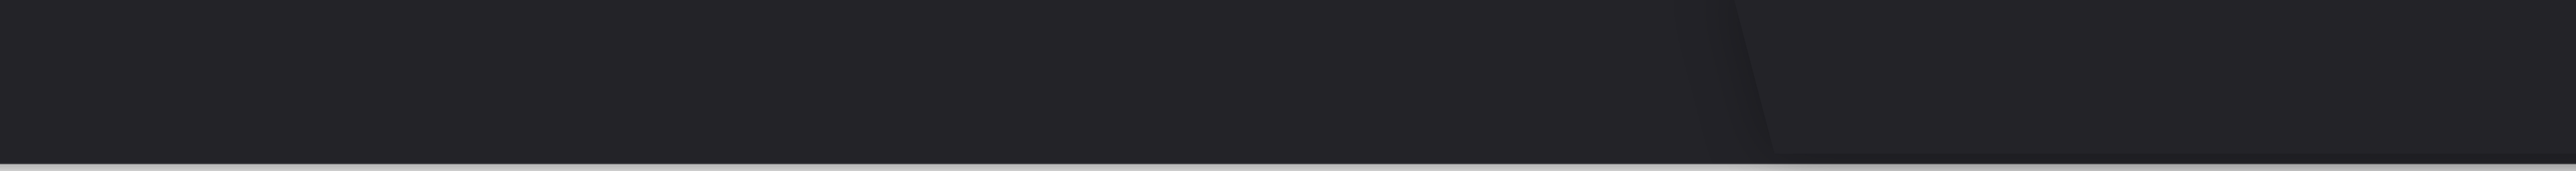
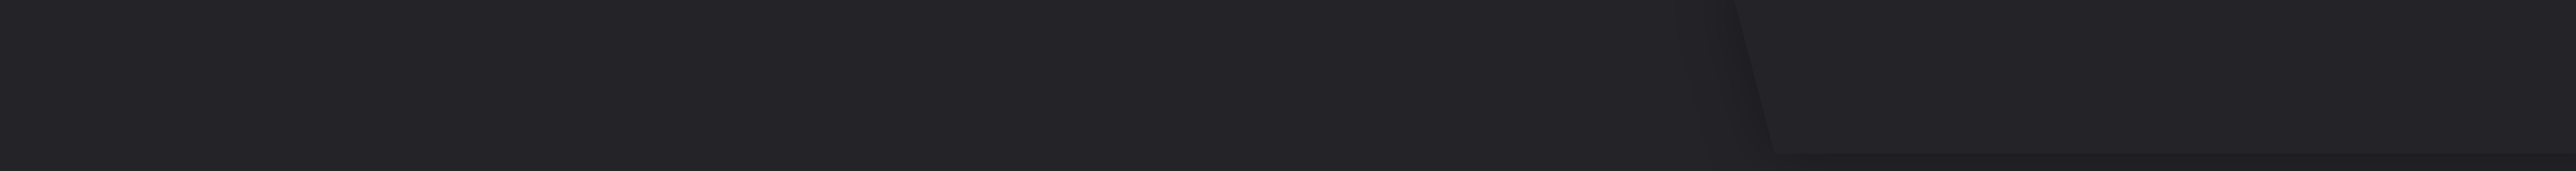
File Upload! Very little left for this project at least in terms of what I'm doing for this class. Folders will come at some point, just a bit too much for this last week.

Changed region(s): [[0.0, 0.9375, 1.0, 1.0]]

diff --git a/src/models/FileModel.ts b/src/models/FileModel.ts
@@ -4,6 +4,6 @@ import { ProjectFile } from '../entities/ProjectFile.js';
 
 const fileRepository = AppDataSource.getRepository(ProjectFile);
 
-export async function getFileByPath(filePath: string) {
+export async function getFileByPath(filePath: string): Promise<ProjectFile | null> {
   return await fileRepository.findOne({ where: { filePath: Like(`%${filePath}%`) } });
 }

diff --git a/src/controllers/FileRoutes.ts b/src/controllers/FileRoutes.ts
@@ -1,4 +1,3 @@
-// PLACEHOLDER FOR WHEN I FIGURE OUT WHAT I'M DOING WITH MULTER
 import { Request, Response } from 'express';
 import fs from 'fs/promises';
 import path from 'path';

diff --git a/client/src/app.css b/client/src/app.css
@@ -72,3 +72,10 @@
 main.container {
   padding-block: 2rem;
 }
+header {
+  position: sticky;
+  top: 0;
+  left: 0;
+  width: 100%;
+  z-index: 1000;
+}

diff --git a/src/entities/ProjectFile.ts b/src/entities/ProjectFile.ts
@@ -1,4 +1,3 @@
-// PLACEHOLDER FOR WHEN I FIGURE OUT WHAT I'M DOING WITH MULTER
 import {
   Column,
   CreateDateColumn,

diff --git a/client/src/routes/login/+page.svelte b/client/src/routes/login/+page.svelte
@@ -28,6 +28,8 @@
       return;
     }
 
+    auth.setUser(auth.user);
+
     await auth.refresh();
 
     goto('/');
